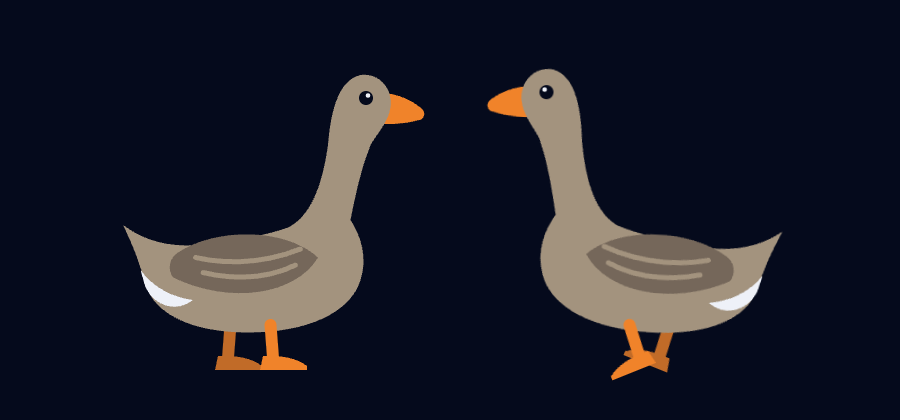
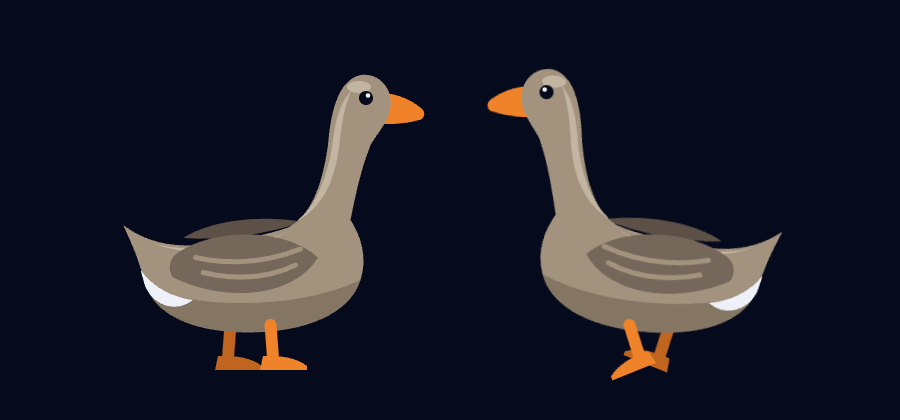
H24: el ganso tiene volumen
Con un dibujo propio y con tono, sin sombra en el piso: la panza en sombra,
la luz de arriba en el lomo, la nuca y la cabeza, el ala del otro lado
asomando detras del lomo y la pata de atras en un naranja mas oscuro (antes
era la misma con transparencia). Cuatro colores nuevos, todos del ganso.

Gate: npm run gate
Rojo: el dibujo no tiene sombra ni luces, y la pata de atras va con opacidad
Verde: 127 passed, build ok

diff --git a/src/hub/Ganso.tsx b/src/hub/Ganso.tsx
@@ -189,10 +189,27 @@ export function Ganso({idioma, azar = Math.random}: Props) {
               className="ganso__pico"
               d="M52.5 8.6 C56.5 8.2 60.5 9.6 62.8 11.8 C63.6 12.6 63.3 13.7 62.3 14 C59.2 14.9 55.6 15 52.5 14.6 Z"
             />
+            {/* El ala del otro lado asoma detrás del lomo: es la que da la idea de cuerpo redondo. */}
+            <path
+              className="ganso__ala-de-atras"
+              d="M15 37.6 C21 33.8 31 33 39 34.4 C32 36.8 22.5 38.2 15 37.6 Z"
+            />
             <path
               className="ganso__pluma"
               d="M3 35 C7 38 12 39.5 18 39 C26 38 32 37 36 35.5 C41 33 43 26 44 19 C44.5 12.5 46 6 50.5 5 C54.5 4.5 57 8 56.5 11.5 C56 14.5 54 16.5 52.5 19 C50.5 24 49.5 29 48.5 34 C50.5 37 52 41.5 50.5 46 C48.5 52.5 40 56.5 28 56.5 C17 56.5 9.5 53 7.5 47 C6.5 43 5 39 3 35 Z"
             />
+            {/* El volumen sale del tono (la regla «Plano con luz»): la panza en sombra, y la luz de arriba
+                en el lomo, el cuello y la cabeza. Ninguna forma se sale de la silueta. */}
+            <path
+              className="ganso__sombra"
+              d="M50.5 46 C48.5 52.5 40 56.5 28 56.5 C17 56.5 9.5 53 7.5 47 C15 51.5 37 52.5 50.5 46 Z"
+            />
+            <path className="ganso__luz" d="M9 38.6 C15 40.6 27 40 35.5 36.6 C29 40 17 42 9 38.6 Z" />
+            <path
+              className="ganso__luz"
+              d="M37.8 34.2 C41.8 31 43.9 25 44.8 19.5 C45.3 14.5 46.4 10.5 48.6 8.2 C47 12 46.6 16 46.1 20.2 C45.2 26.2 42.9 31.6 37.8 34.2 Z"
+            />
+            <ellipse className="ganso__luz" cx="50.2" cy="7.4" rx="2.4" ry="1.2" />
             <path className="ganso__rabadilla" d="M6.5 44 C9 47.5 13 49.5 17 50 C14 52.5 9.5 51.5 7.5 47.5 Z" />
             <path
               className="ganso__ala"

diff --git a/tests/ganso.test.tsx b/tests/ganso.test.tsx
@@ -318,3 +318,21 @@ describe('las patas del ganso', () => {
     expect(pasoDeLaPata(css, 'parado', 'atras')).toBeUndefined();
   });
 });
+
+describe('el volumen del ganso', () => {
+  it('el dibujo trae la sombra de la panza, las luces del lomo y la cabeza, y el ala de atrás', () => {
+    medios({});
+    const {container} = render(<Ganso idioma="es" azar={azarConSemilla(1)} />);
+    const dibujo = container.querySelector('.ganso__dibujo');
+    expect(dibujo?.querySelector('.ganso__sombra')).not.toBeNull();
+    expect(dibujo?.querySelectorAll('.ganso__luz').length).toBeGreaterThanOrEqual(2);
+    expect(dibujo?.querySelector('.ganso__ala-de-atras')).not.toBeNull();
+  });
+
+  it('la pata de atrás va en un naranja más oscuro que la de adelante, no transparente', () => {
+    const css = readFileSync(resolve(process.cwd(), 'src/hub/ganso.css'), 'utf8');
+    expect(css).toMatch(/\.ganso__pata--atras\s+\.ganso__pie\s*\{[^}]*fill:\s*var\(--ganso-pico-sombra\)/);
+    expect(css).toMatch(/\.ganso__pata--atras\s+\.ganso__pierna\s*\{[^}]*stroke:\s*var\(--ganso-pico-sombra\)/);
+    expect(css).not.toMatch(/\.ganso__pata--atras\s*\{[^}]*opacity/);
+  });
+});

diff --git a/src/hub/ganso.css b/src/hub/ganso.css
@@ -61,6 +61,28 @@
   stroke-linecap: round;
 }
 
+/* El volumen, con tono y sin sombra en el piso: la panza más oscura, la luz de arriba en el lomo, el
+   cuello y la cabeza, el ala del otro lado y la pata de atrás un tono más atrás. */
+.ganso__sombra {
+  fill: var(--ganso-sombra);
+}
+
+.ganso__luz {
+  fill: var(--ganso-luz);
+}
+
+.ganso__ala-de-atras {
+  fill: var(--ganso-ala-de-atras);
+}
+
+.ganso__pata--atras .ganso__pie {
+  fill: var(--ganso-pico-sombra);
+}
+
+.ganso__pata--atras .ganso__pierna {
+  stroke: var(--ganso-pico-sombra);
+}
+
 /* Las patas giran desde la cadera y el cuerpo se bambolea apoyado en ellas. */
 .ganso__pata,
 .ganso__cuerpo {
@@ -69,7 +91,6 @@
 
 .ganso__pata--atras {
   transform-origin: 24.5px 55px;
-  opacity: 0.8;
 }
 
 .ganso__pata--adelante {

diff --git a/src/estilos/base.css b/src/estilos/base.css
@@ -31,6 +31,12 @@
   --ganso-pluma: #a3937e;
   --ganso-ala: #75675a;
   --ganso-pico: #f0832a;
+  /* El volumen del ganso (H24): la sombra de la panza, la luz de arriba, el ala del otro lado y la
+     pata de atrás, todos del mismo pardo o del mismo naranja. */
+  --ganso-sombra: #857663;
+  --ganso-luz: #c2b5a1;
+  --ganso-ala-de-atras: #5c5047;
+  --ganso-pico-sombra: #c0651f;
 
   --letra: 'Geist Variable', system-ui, sans-serif;
   --letra-mono: 'Geist Mono Variable', ui-monospace, monospace;

diff --git a/DESIGN.md b/DESIGN.md
@@ -26,6 +26,10 @@ colors:
   ganso-pluma: "#a3937e"
   ganso-ala: "#75675a"
   ganso-pico: "#f0832a"
+  ganso-sombra: "#857663"
+  ganso-luz: "#c2b5a1"
+  ganso-ala-de-atras: "#5c5047"
+  ganso-pico-sombra: "#c0651f"
 typography:
   display:
     fontFamily: "Geist Variable, system-ui, sans-serif"
@@ -141,7 +145,11 @@ Las tres luces van en `mix-blend-mode: screen` y son también tres cuadrados del
 - **Polvo** (`particula`): el color de las motas del canvas, que lo lee de la propiedad `color` del canvas. En reposo se ven al 4–14% de opacidad (unas pocas, al 26–36%); encendidas llegan a opacidad plena.
 - **Pluma de ganso** (`ganso-pluma`): el cuerpo, el cuello y la cabeza del ganso, y las dos plumas marcadas del ala.
 - **Ala de ganso** (`ganso-ala`): el ala, más oscura que la pluma.
-- **Pico de ganso** (`ganso-pico`): el pico y las patas del ganso. Es el único naranja del hub.
+- **Pico de ganso** (`ganso-pico`): el pico y la pata de adelante. Es el único naranja del hub.
+- **Sombra de ganso** (`ganso-sombra`): la panza, en sombra.
+- **Luz de ganso** (`ganso-luz`): la luz de arriba, en el lomo, el cuello y la cabeza.
+- **Ala de atrás** (`ganso-ala-de-atras`): el ala del otro lado, que asoma detrás del lomo.
+- **Pata de atrás** (`ganso-pico-sombra`): la pata del otro lado, un tono más oscura que la de adelante.
 
 Los tres son los únicos colores cálidos del hub, y no salen del ganso.
 
@@ -241,7 +249,8 @@ Fijo a pantalla completa, detrás de todo y fuera del árbol de accesibilidad.
 - **Quieto:** con `prefers-reduced-motion` las luces no derivan, no siguen al mouse y el polvo queda tenue y quieto; con el dedo el polvo deriva pero no reacciona.
 
 ### Ganso
-El easter egg de ADR-0014. Un ganso común (ADR-0016) de 64×64px, dibujado en SVG con formas lisas y sin contorno: gris pardo, de cuello largo y cuerpo pesado, con la cabeza chica, la rabadilla blanca y la cola corta. Antes fue un pato: blanco, que parecía una gaviota (H15), y después amarillo (H17). Plumas en `ganso-pluma`, ala en `ganso-ala` con dos plumas marcadas en `ganso-pluma`, rabadilla en `texto`, ojo en `fondo` con un brillo en `texto`, y pico y patas en `ganso-pico`. El pico se dibuja detrás de la cabeza, que le tapa la base. No es el ganso blanco de Desktop Goose: de ahí se toma sólo la idea.
+El easter egg de ADR-0014. Un ganso común (ADR-0016) de 64×64px, dibujado en SVG con formas lisas y sin contorno: gris pardo, de cuello largo y cuerpo pesado, con la cabeza chica, la rabadilla blanca y la cola corta. Antes fue un pato: blanco, que parecía una gaviota (H15), y después amarillo (H17). Plumas en `ganso-pluma`, ala en `ganso-ala` con dos plumas marcadas en `ganso-pluma`, rabadilla en `texto`, ojo en `fondo` con un brillo en `texto`, y pico y patas en `ganso-pico`. El pico se dibuja detrás de la cabeza, que le tapa la base.
+- **Volumen** (H24): sale del tono, como pide «Plano con luz», y no de una sombra en el piso. La panza va en `ganso-sombra`; una luz en `ganso-luz` corre bajo el lomo, baja por la nuca y toca la cabeza; el ala del otro lado asoma en `ganso-ala-de-atras` detrás del lomo, y la pata de atrás va en `ganso-pico-sombra`. Ninguna forma se sale de la silueta. Es un dibujo propio, no el de Desktop Goose (ADR-0016). No es el ganso blanco de Desktop Goose: de ahí se toma sólo la idea.
 - **Lugar:** fijo a la ventana, por encima de la grilla y del pie (`z-index` 2), con `pointer-events: none`. Su posición es la de los pies, y el dibujo se espeja alrededor de ese punto según para dónde camina.
 - **Paseo:** camina a 60 px/s hacia un punto al azar, a 40px de los costados, 70px de arriba y 12px de abajo; al llegar se queda parado entre 1 y 4 s y elige otro.
 - **Paso:** caminando, las patas giran ±22° desde la cadera, en contrafase, y el cuerpo se bambolea ±3° con 1,5px de rebote, en 0,42 s alternados. Corriendo a buscar el cursor, el mismo paso en 0,2 s; llevándoselo, en 0,28 s, aunque vaya para atrás. Parado no se mueve.
